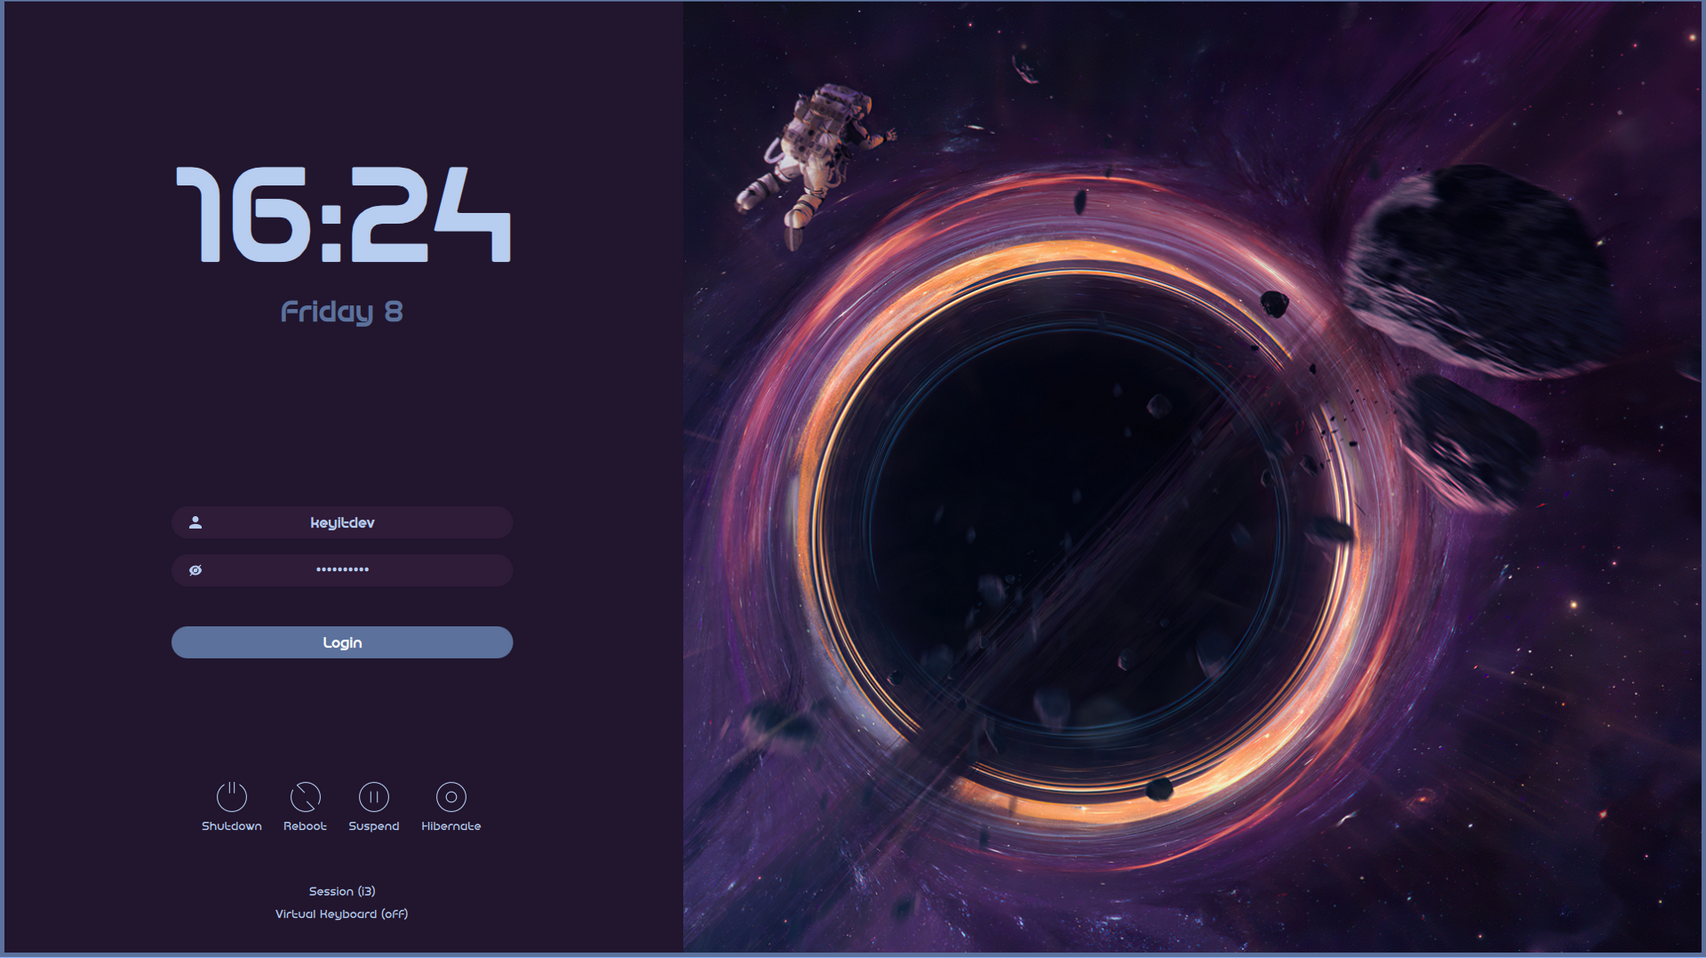
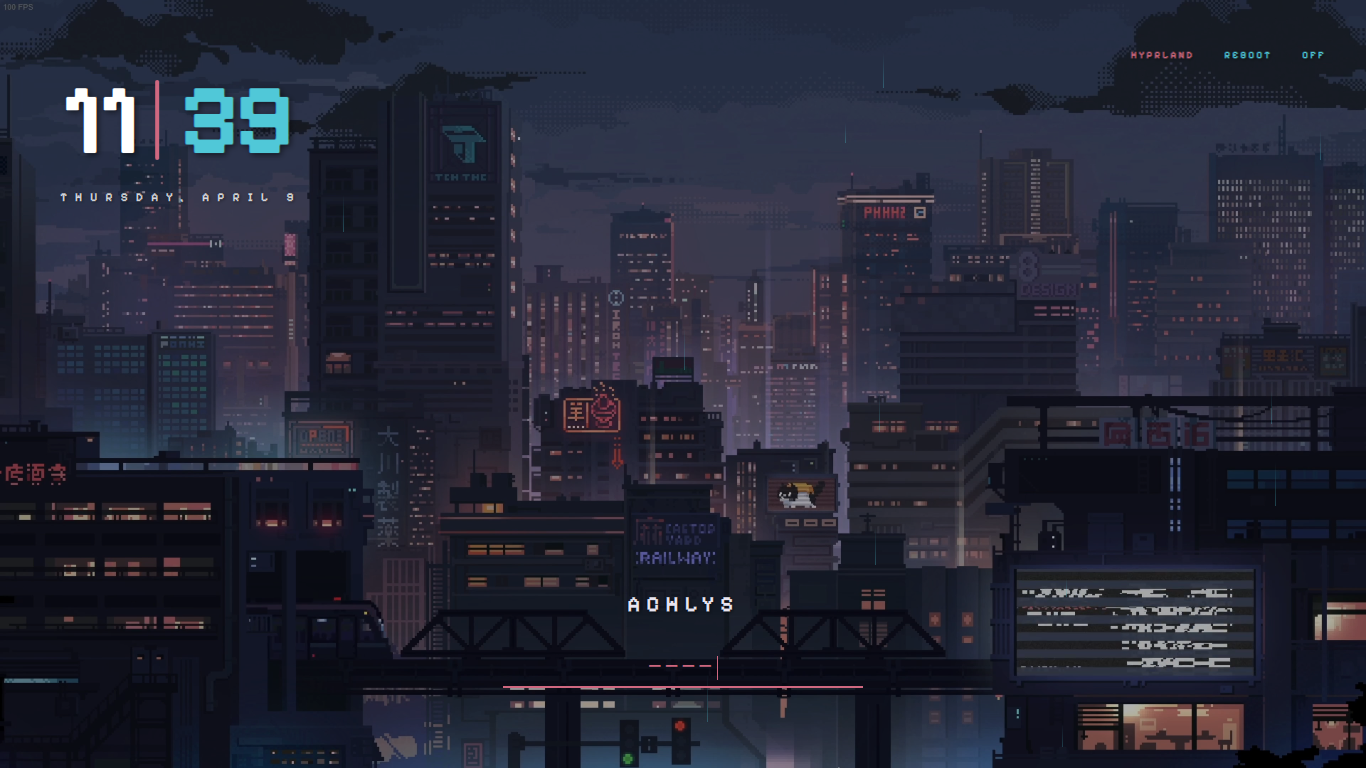
Update README

diff --git a/README.md b/README.md
@@ -47,4 +47,4 @@ To get started with this setup, follow these steps:
 ![screenshot](./screenshots/Grub.jpg)
 
 ### Sddm
-![screenshot](./screenshots/Sddm.gif)
+![screenshot](./screenshots/Sddm.png)